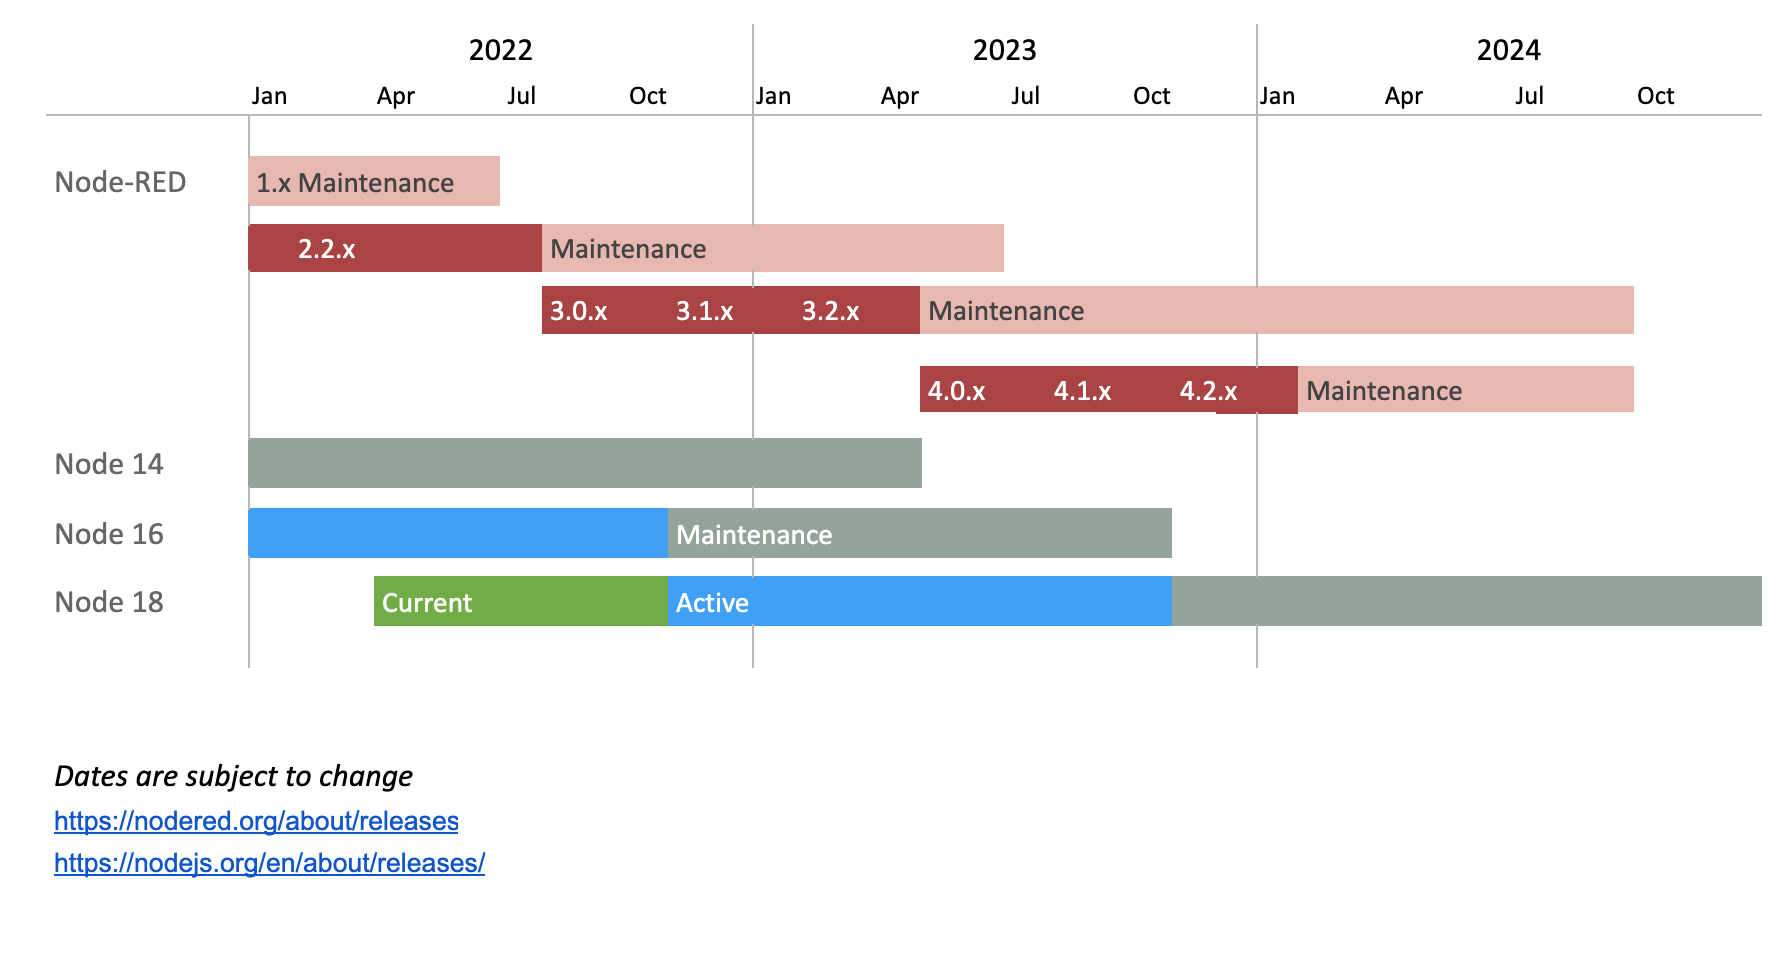
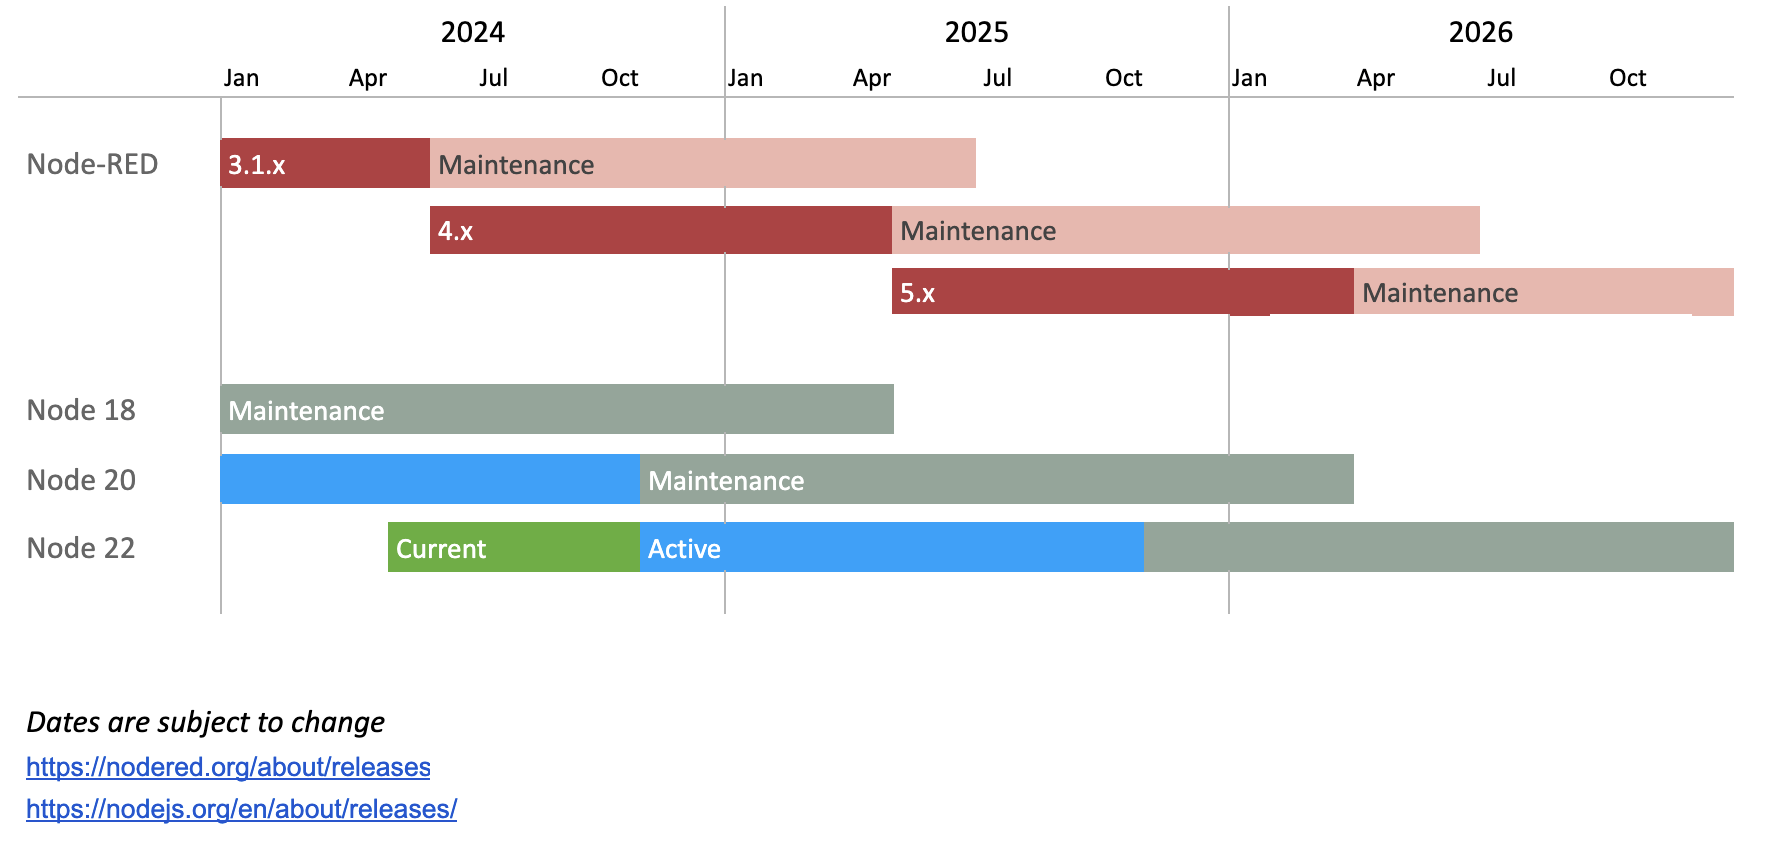
Update release plan

diff --git a/about/releases/index.md b/about/releases/index.md
@@ -4,27 +4,24 @@ title: Release Plan
 slug: releases
 ---
 
-_Updated: 2022-08-04_
+_Updated: 2024-01-03_
 
 This plan is a guide for how the project plans to schedule upcoming releases, taking
 into account the release schedule of the underlying Node.js runtime.
 
 ![](release-plan.png)
 
+The project aims to make a new major release around April each year. This aligns
+with when versions of Node.js reach their end-of-life and enables us to drop support
+for them.
 
-The active Node-RED stream (3.x) will get a new minor version release (for example, 3.1 ->  3.2)
-every three months. Maintenance releases (for example 3.1.0 -> 3.1.1) will continue
-to happen as and when they are needed.
+The active Node-RED stream will get regular minor releases (for example 4.0 -> 4.1)
+containing new features as well as maintenance releases (for example 4.0.1 -> 4.0.2)
+as and when they are needed.
 
-At the end of April 2023, when Node 14.x reaches its end-of-life, we will publish
-Node-RED 4.x that will *drop* support for Node 14.
-
-The 3.x stream will then enter maintenance mode. It will only receive bug fixes
-and security updates. New features could get back-ported from 4.x if there was
-a very good reason to do so as well as people available to do the work.
-
-The 4.x stream will continue in active development with a minor release every
-three months or so for a year, when the next major release is made.
+When a new major version is released, the previous version enters maintenance mode
+for an extended period of time. During this time it will only receive bug fixes
+and security updates.
 
 This proposal means:
 
@@ -36,12 +33,12 @@ This proposal means:
 
 Release | Initial         | Maintenance Start    | End-of-life
 --------|-----------------|----------------------|-----------------
-1.x     | 2019-09-30      | 2021-04-30           | 2022-06-30
+4.x     | *2024-04-30* *  | *2025-04-30* *       | 2026-06-30
+3.x     | 2022-07-14      | *2024-04-30* *       | 2025-06-30
 2.x     | 2021-07-22      | 2022-07-14           | 2023-06-30
-3.x     | 2022-07-14      | *2023-04-30* *       | 2024-06-30
-4.x     | *2023-04-30* *  | *2024-04-30* *       | 2025-06-30
+1.x     | 2019-09-30      | 2021-04-30           | 2022-06-30
 
-_* Dates are subject to change_
+_Dates are subject to change_
 
 References:
  - [Blog post: Going beyond Node-RED 1.x](https://nodered.org/blog/2020/07/01/release-plans)

diff --git a/docs/faq/node-versions.md b/docs/faq/node-versions.md
@@ -5,22 +5,21 @@ title: Supported Node versions
 slug: node versions
 ---
 
-Node-RED currently recommends **Node 18.x or Node 20.x**.
+_Updated: 2024-01-03_
 
-Version    | Support Level   | Notes
------------|-----------------|------
- **20.x**  | **Recommended** | 
- **18.x**  | **Recommended** | 
- 16.x  | *Supported*       |  
- 14.x  | *Supported*     | Node-RED 3.x or earlier only 
- 12.x  | *Supported*     | Node-RED 2.x or earlier only
- < 10.x    | *Unsupported*   | Node-RED 1.x or earlier only
+Node-RED currently recommends **Node 20.x**.
 
 We try to stay up to date with Node.js releases. Our goal is to support
 the [Maintenance and Active LTS releases](https://nodejs.org/en/about/releases/).
 
-We do not generally recommend using the odd numbered Node.js versions - we do not
+We do not recommend using the odd numbered Node.js versions - we do not
 routinely test against them.
+
+Node-RED Version | Minimum Node.js Version
+---|---
+4.x | 18
+3.x | 14
+2.x | 12
 
 With such a large community of 3rd party nodes available to install, we cannot
 provide any guarantees on what they support. We rely on the community to keep
